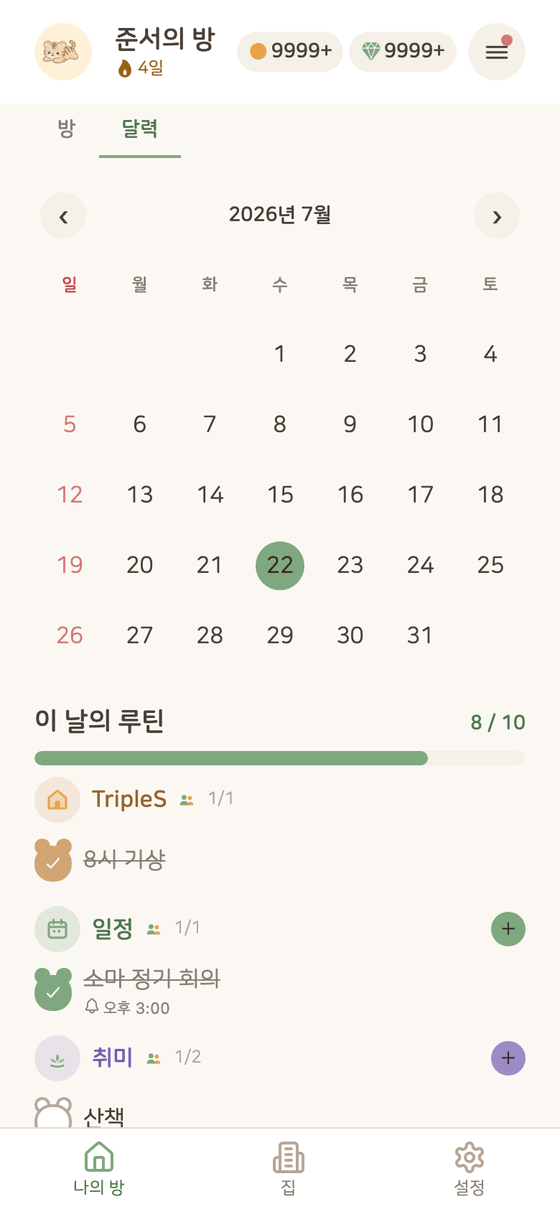
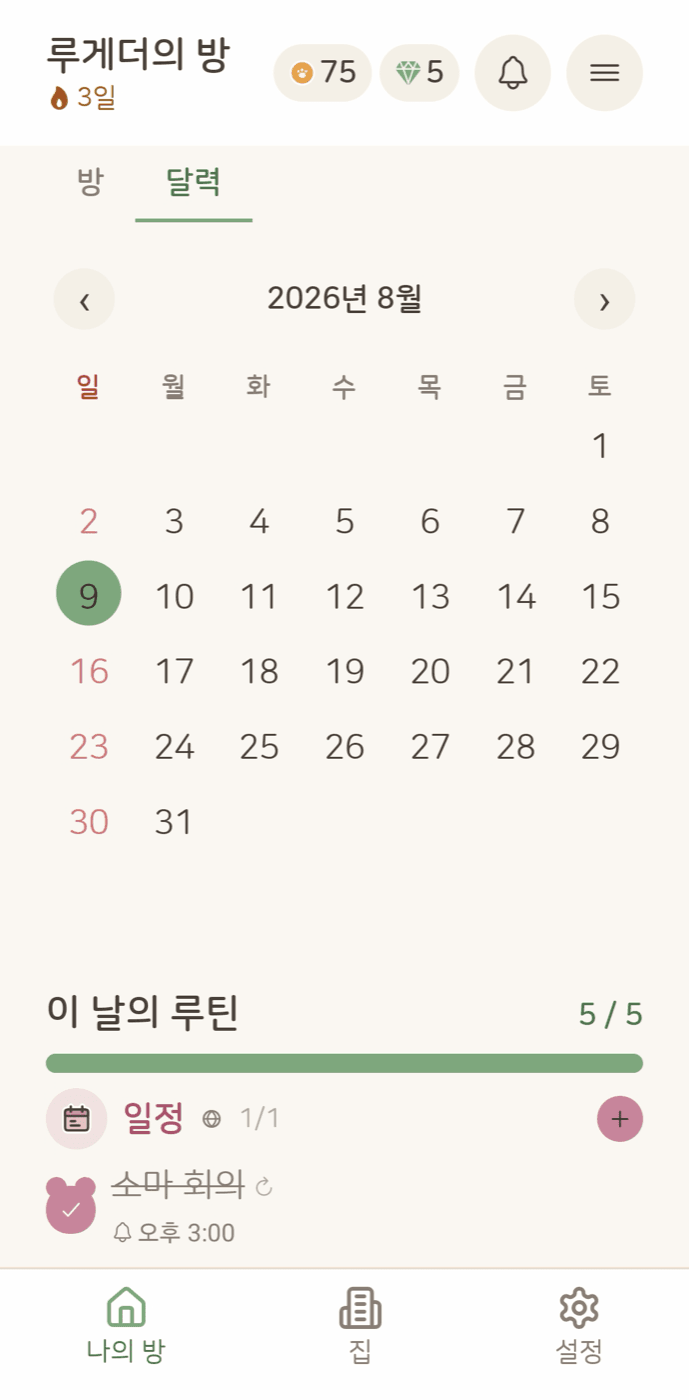
design: 온보딩 튜토리얼 캡처 5장 최신 UI로 교체 (#746)

diff --git a/src/components/screens/onboarding-screen.tsx b/src/components/screens/onboarding-screen.tsx
@@ -28,8 +28,9 @@ import { useTokens, useTypography } from '@/hooks/use-tokens';
 type Slide = { image: number; title: string; description: string };
 
 /**
- * 인트로 5장 (#412, design-sync A안): 비주얼은 계정 4로 촬영한 실제 앱 화면
- * 캡처(라이트, 390×844 → 560px 최적화). UI가 크게 바뀌면 재촬영해 교체한다.
+ * 인트로 5장 (#412, design-sync A안): 비주얼은 실제 앱 화면 캡처(라이트,
+ * 1080×2192 → 표시 3배수인 689px로 축소·팔레트 압축, #746). UI가 크게 바뀌면
+ * 재촬영해 교체한다 — 캡처 비율이 바뀌면 styles.captureFrame도 함께.
  */
 const SLIDES: Slide[] = [
   {
@@ -40,7 +41,7 @@ const SLIDES: Slide[] = [
   {
     image: require('@/assets/images/onboarding/routines.png'),
     title: '오늘의 루틴을\n곰 체크로 완료해요',
-    description: '카테고리로 모아 보고, 알림·사진 인증까지',
+    description: '카테고리로 모아 보고, 알림·반복 설정까지',
   },
   {
     image: require('@/assets/images/onboarding/decor.png'),
@@ -650,9 +651,11 @@ const styles = StyleSheet.create({
     gap: Spacing.three,
   },
   captureFrame: {
-    // 캡처 원본(390×844) 비율의 폰 프레임 카드 — 세로 공간에 맞춰 줄어든다.
+    // 캡처 원본(1080×2192) 비율의 폰 프레임 카드 — 세로 공간에 맞춰 줄어든다.
+    // 비율이 어긋나면 contentFit="cover"가 화면 가장자리를 잘라내므로 원본과
+    // 같은 값을 쓴다 (#746).
     width: 210,
-    aspectRatio: 390 / 844,
+    aspectRatio: 1080 / 2192,
     maxHeight: 460,
     borderRadius: Radius.lg,
     borderWidth: 1,
